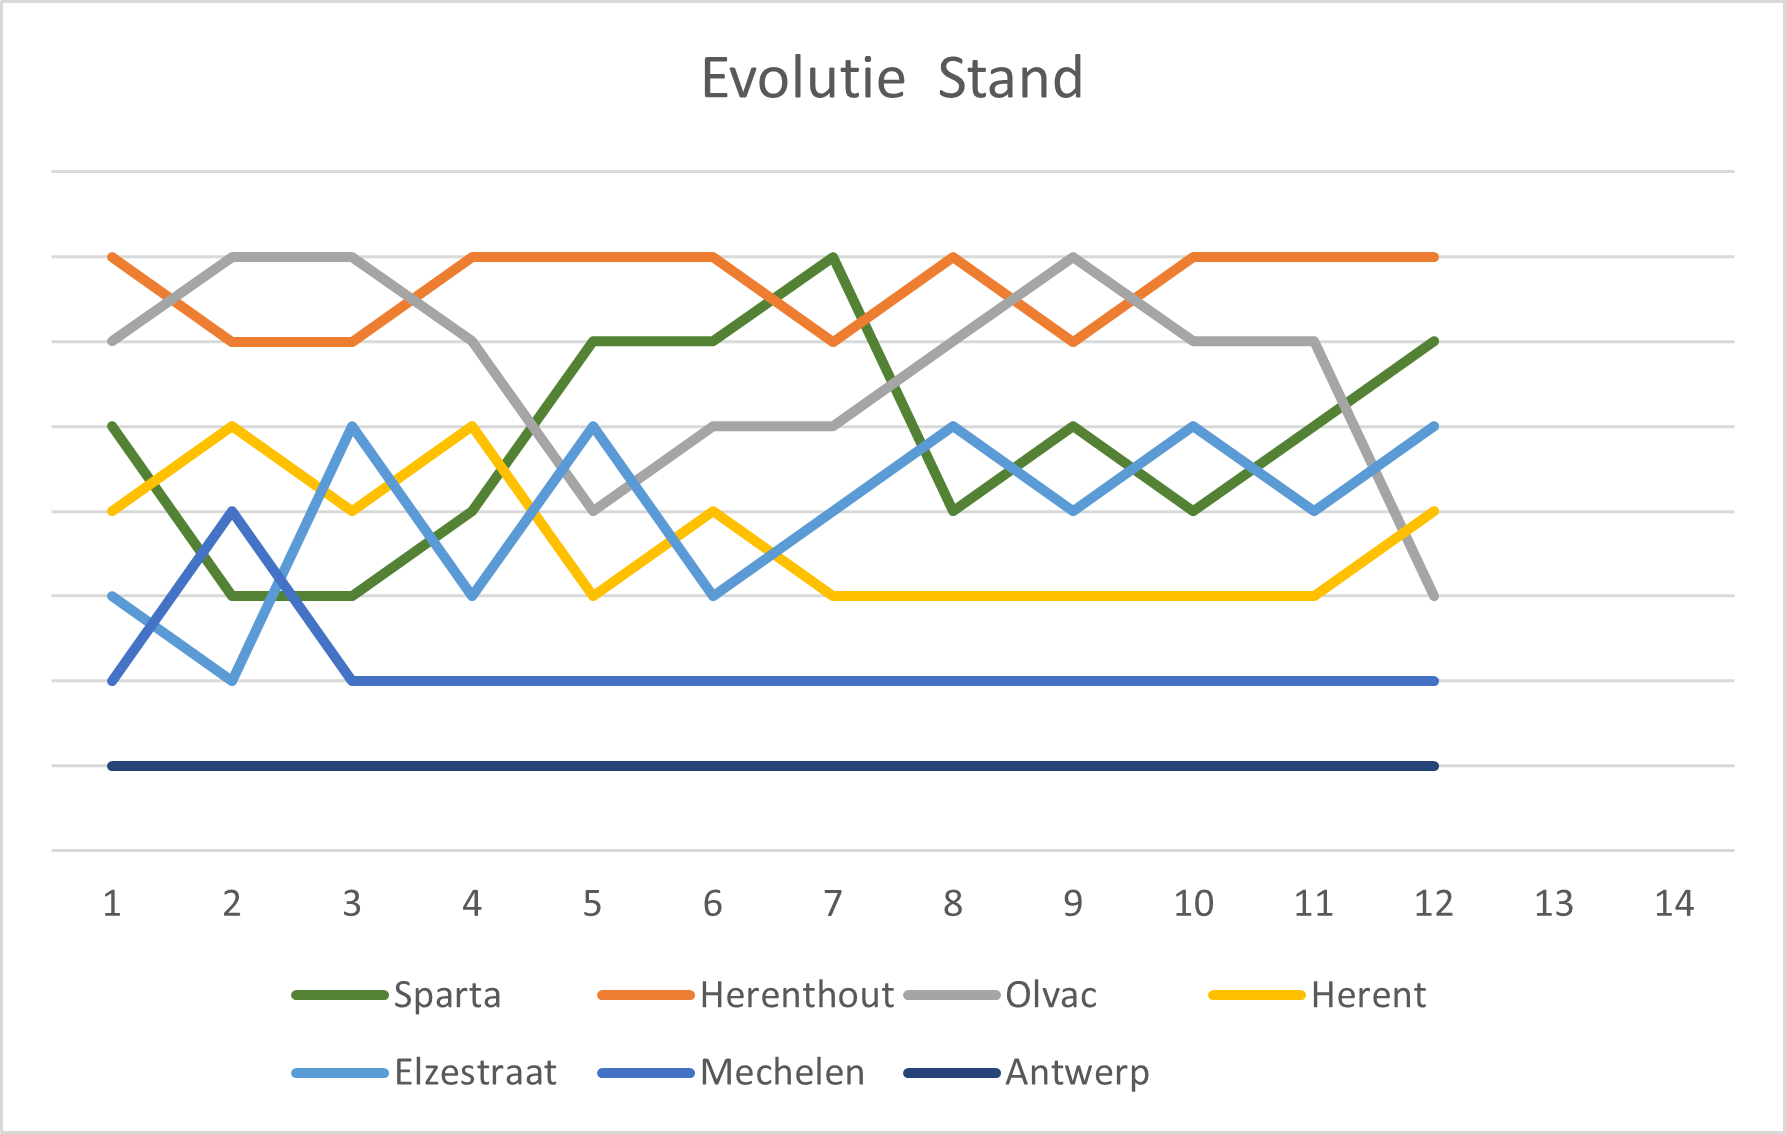
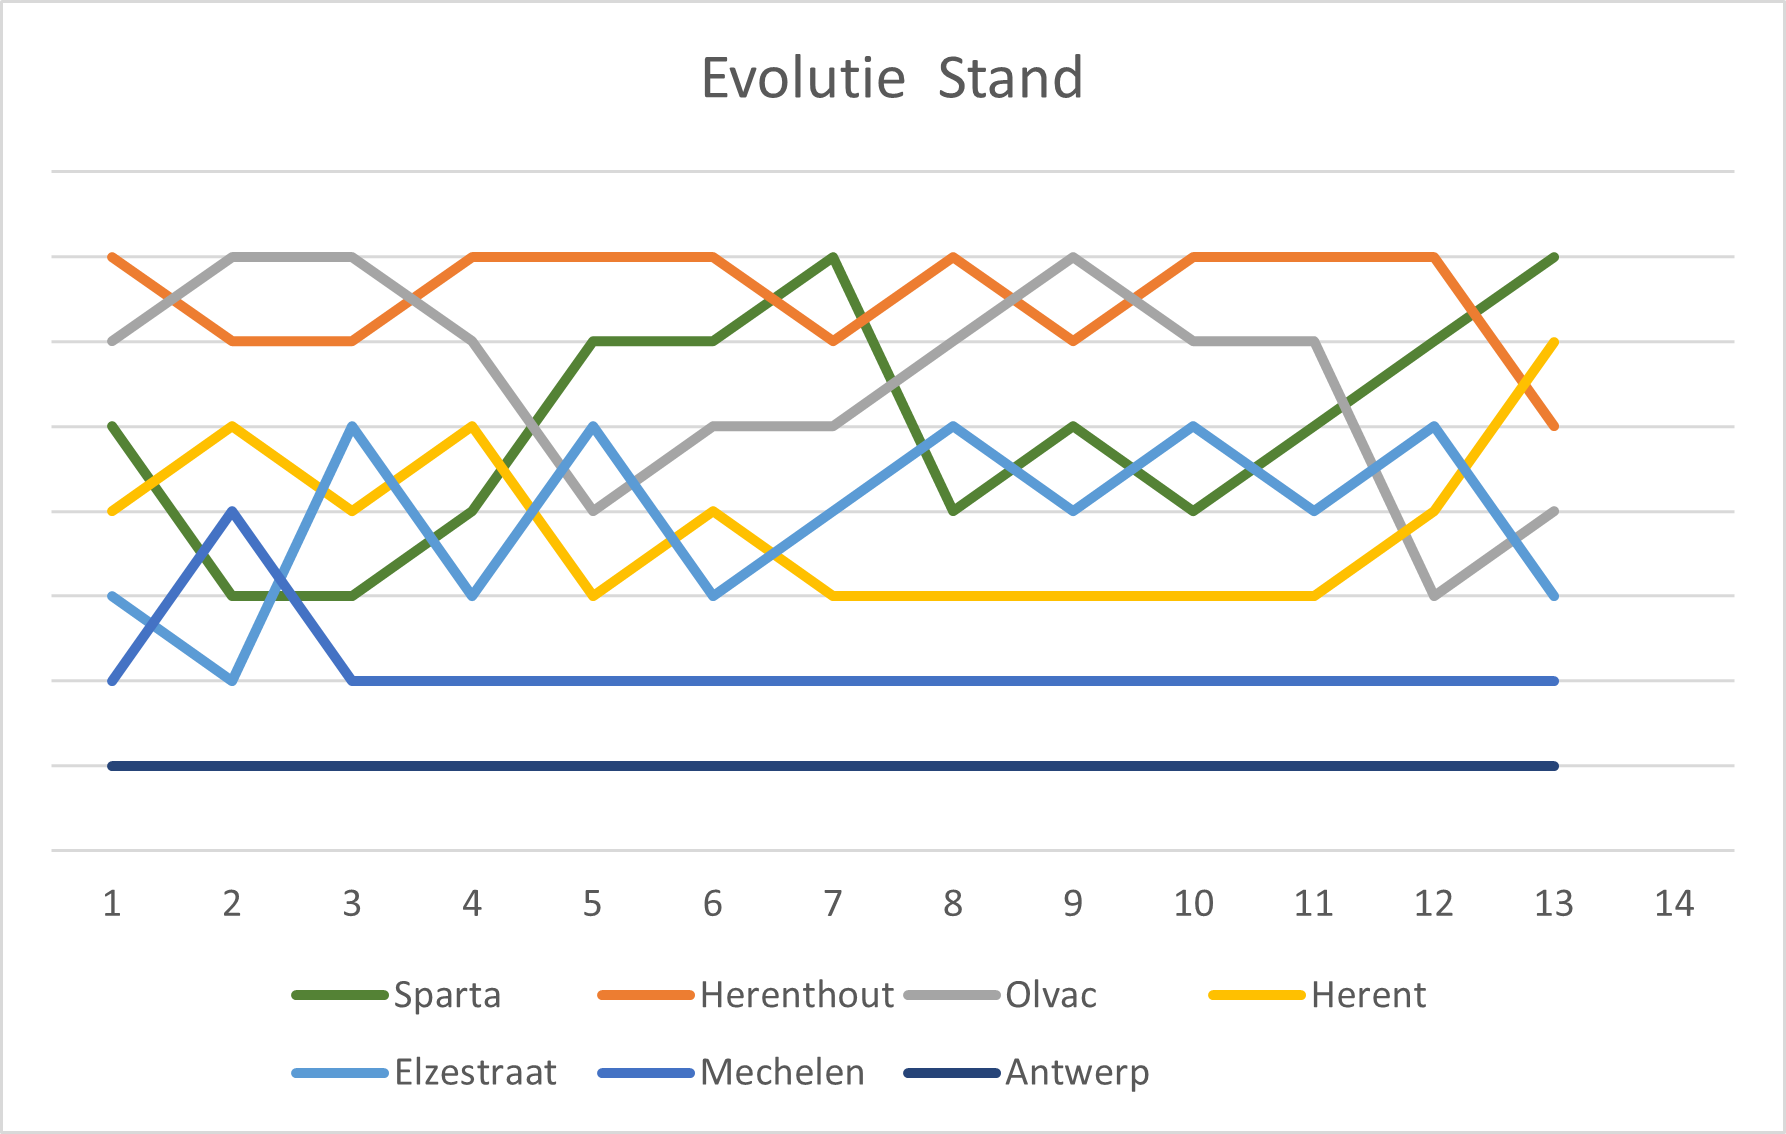
Update

Changed region(s): [[0.8007, 0.216, 0.8931, 0.5247], [0.8007, 0.6481, 0.8623, 0.679], [0.8007, 0.5864, 0.8623, 0.6173]]

diff --git a/README.md b/README.md
@@ -6,16 +6,16 @@ Op deze pagina vind je allerlei nuttige informatie & afspraken voor de MU 16 sei
 
 ## Volgende wedstrijd
 
-<!-- > Volgende **thuis** wedstrijd is op zaterdag **2 december** tegen **S.C. Mechelen** om **12.45** (11.45 ter plaatse)
+> volgende **thuis** wedstrijd is op zaterdag **2 december** tegen **s.c. mechelen** om **12.45** (11.45 ter plaatse)
 
-> Kleedkamer: **Lore & Celine & Feliz**
+> kleedkamer: **lore & celine & feliz**
 
-> Fruit: **Auke**
+> fruit: **auke**
 
-> Was meenemen: **Auke** -->
+> was meenemen: **auke**
 
 
-> Volgende **uit** wedstrijd is op vrijdag **25 november** tegen **Herenthout** om **11.15** (10.15 ter plaatse of 09.15 vertrekken op Sparta) 
+<!-- > Volgende **uit** wedstrijd is op vrijdag **25 november** tegen **Herenthout** om **11.15** (10.15 ter plaatse of 09.15 vertrekken op Sparta) 
 
 > Fruit: Féliz
 
@@ -25,13 +25,12 @@ Op deze pagina vind je allerlei nuttige informatie & afspraken voor de MU 16 sei
 K.F.C. Herenthout<br>
 Bergensesteenweg 63  <br>
 2270 Herenthout <br>
-[map](https://www.google.be/maps/place/K.F.C.+Herenthout/@51.1506529,4.7652413,17z/data=!3m1!4b1!4m6!3m5!1s0x47c15135033e2181:0x4f7b365a7e464a13!8m2!3d51.1506529!4d4.7652413!16s%2Fg%2F11bzx579nx?entry=ttu)
+[map](https://www.google.be/maps/place/K.F.C.+Herenthout/@51.1506529,4.7652413,17z/data=!3m1!4b1!4m6!3m5!1s0x47c15135033e2181:0x4f7b365a7e464a13!8m2!3d51.1506529!4d4.7652413!16s%2Fg%2F11bzx579nx?entry=ttu) -->
 
 
 
 Datum   | Thuis | Uit   | Tegenstander          | Uur
 ---     |:---:  |:---:  |---                    | ---
-za 25-Nov  |       |☑     |K.F.C Herenthout       | 11.15
 za 02-Dec  |☑     |       |S.C. Mechelen           | 12.45
 
 Uren zijn onder voorbehoud en kunnen wijzigen
@@ -45,6 +44,7 @@ Symbool   | Status
 
 Datum   | Thuis | Uit    | Tegenstander        | Uitslag
 ---     |:---:  |:---:   |---                  |---
+25-Nov  |       |✅     |K.F.C Herenthout       | **0-5**
 18-Nov  |✅     |       |Antwerp Diamonds Fc    | **7-0**
 10-Nov  |       |✅     |Kon. Olvac             | **0-2**
 28-Okt  |✅     |       |K.F.C Herent           | 1-1
@@ -60,13 +60,14 @@ Datum   | Thuis | Uit    | Tegenstander        | Uitslag
 
 Team	|	PTS	|	M	|	W	|	V	|	G	|	+	|	-	|	+/-
 ---	|	---	|	---	|	---	|	---	|	---	|	---	|	---	|	---
-Herenthout	|	22	|	10	|	7	|	2	|	1	|	43	|	15	|	28
-Sparta	|	20	|	10	|	6	|	2	|	2	|	44	|	16	|	28
+Sparta	|	23	|	11	|	7	|	2	|	2	|	49	|	16	|	33
+Herent	|	22	|	11	|	7	|	3	|	1	|	50	|	19	|	31
+Herenthout	|	22	|	11	|	7	|	3	|	1	|	43	|	20	|	23
+Olvac	|	22	|	11	|	7	|	3	|	1	|	36	|	25	|	11
 Elzestraat	|	19	|	11	|	6	|	4	|	1	|	52	|	20	|	32
-Herent	|	19	|	10	|	6	|	3	|	1	|	44	|	17	|	27
-Olvac	|	19	|	10	|	6	|	3	|	1	|	35	|	25	|	10
-Mechelen	|	6	|	10	|	2	|	8	|	0	|	20	|	60	|	-40
-Antwerp	|	0	|	11	|	0	|	11	|	0	|	10	|	95	|	-85
+Mechelen	|	6	|	11	|	2	|	9	|	0	|	22	|	66	|	-44
+Antwerp	|	0	|	12	|	0	|	12	|	0	|	10	|	96	|	-86
+
 
 
 ### Evolutie
@@ -132,7 +133,7 @@ Tille	    |           |           |           |           |           |         
 Lize        |           |           |           |           |           |           |           |✅           |         |           |           |
 Morane		|           |           |           |           |           |           |           |           |✅           |           |         |
 Auke        |           |           |           |           |           |           |           |           |           |✅         |           |
-Féliz		|           |           |           |           |           |           |           |           |           |           |☑           |         
+Féliz		|           |           |           |           |           |           |           |           |           |           |✅           |         
 Celine	    |           |           |           |           |           |           |           |           |           |           |           |☑
 Lore	    |           |           |           |           |           |           |           |           |           |           |           |
 
@@ -185,7 +186,7 @@ Tille	    |           |           |           |           |           |✅      
 Lize        |           |           |           |           |           |           |✅           |         |           |           |
 Morane		|           |           |           |           |           |           |           |✅           |           |         |
 Auke        |           |           |           |           |           |           |           |           |✅         |           |
-Féliz		|           |           |           |           |           |           |           |           |           |☑         |         
+Féliz		|           |           |           |           |           |           |           |           |           |✅         |         
 Celine	    |           |           |           |           |           |           |           |           |           |           |☑
 Lore	    |           |           |           |           |           |           |           |           |           |           |
 
